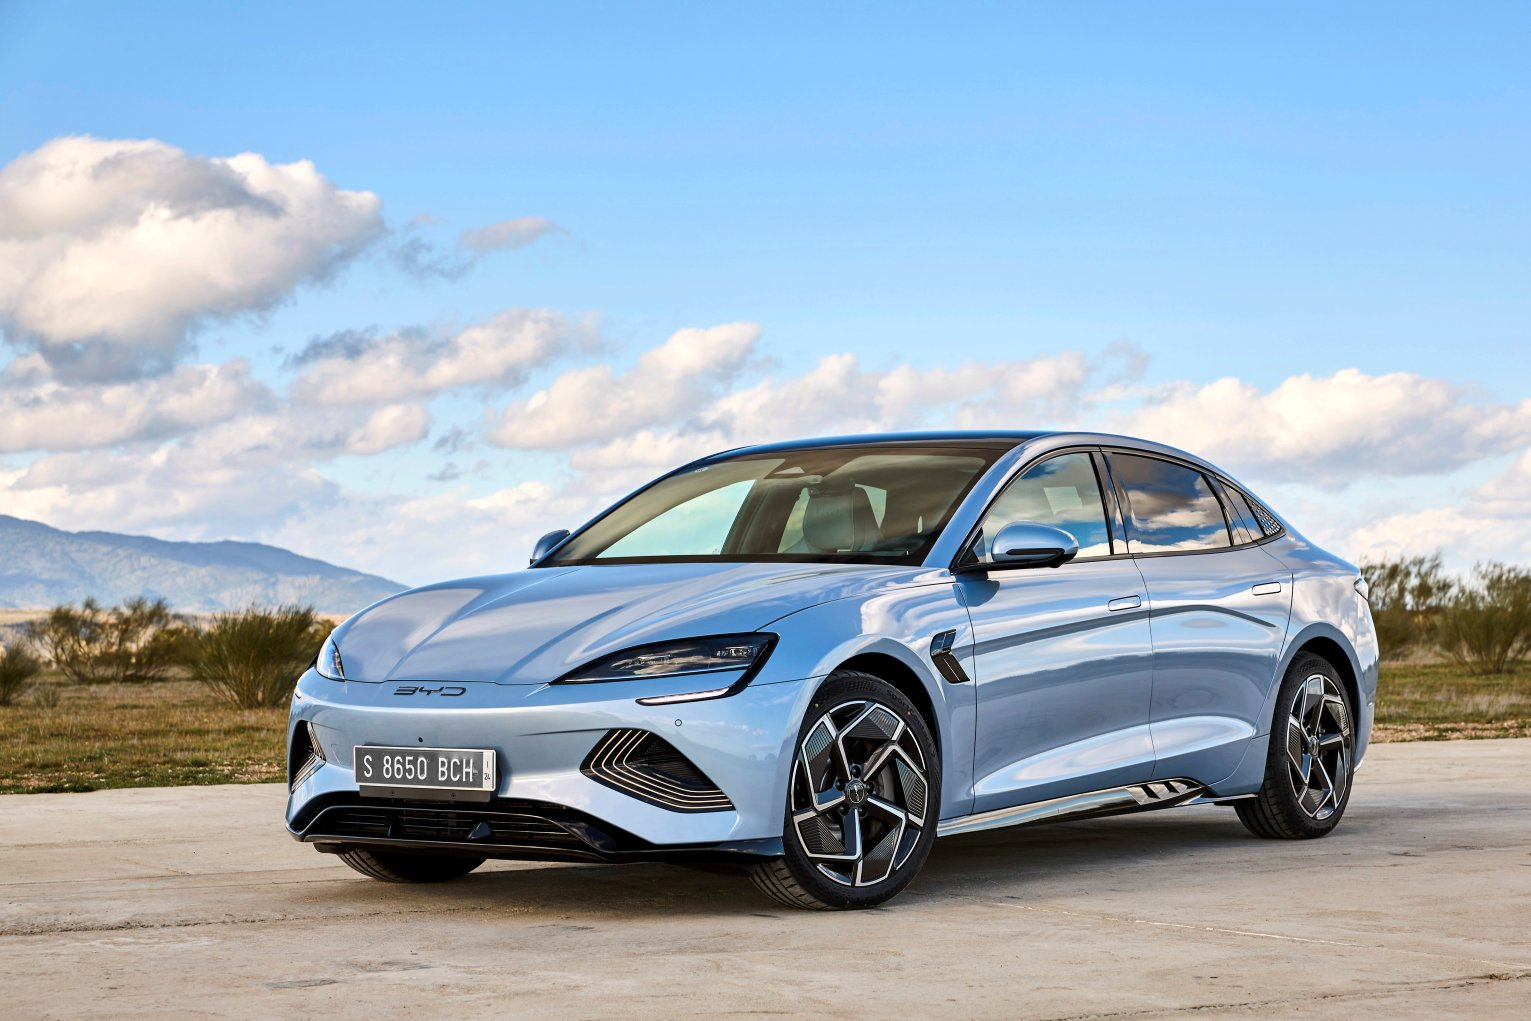
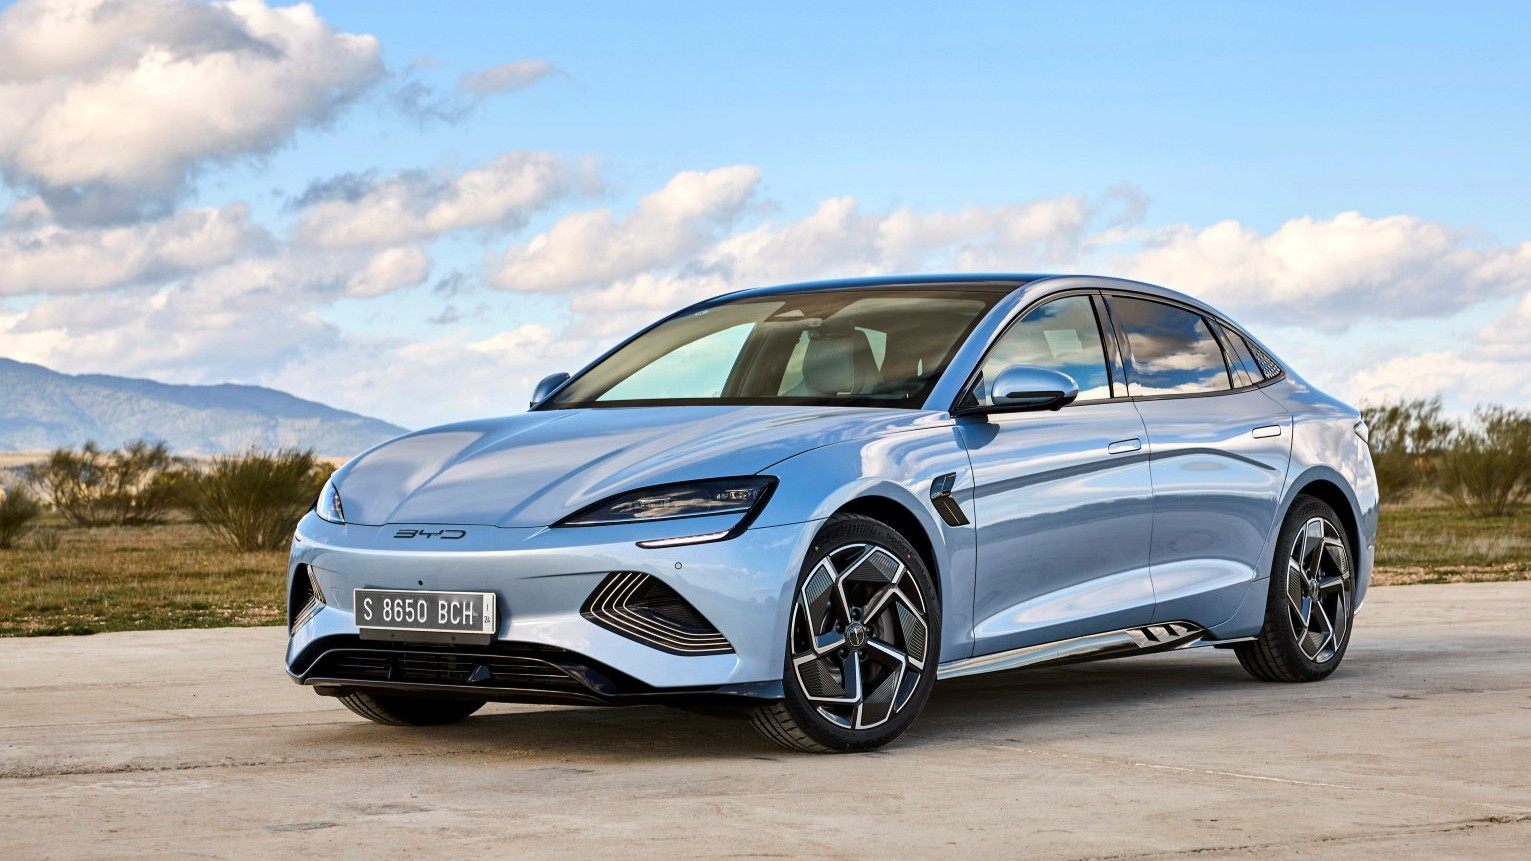
v2.12.10
Changelog
- Fixes.
- Updated some product images.

diff --git a/css/products.css b/css/products.css
@@ -12,7 +12,6 @@
 .product-info {
   display: flex;
   justify-content: center;
-  flex-flow: row;
   gap: 1rem;
   width: 100%;
 }
@@ -76,7 +75,8 @@
   width: auto;
   aspect-ratio: 16 / 9;
   border-radius: 1rem;
-  object-fit: cover;
+  object-fit: contain;
+  background-color: white;
   flex-shrink: 0;
   scroll-snap-stop: always;
   }
@@ -114,7 +114,7 @@
 /* calificación de un producto - incluye las estrellas, el número de calificaciones y el total de vendidos */
 .product-stars-sells {
   display: flex;
-  flex-direction: row;
+  flex-flow: row wrap;
   justify-content: space-between;
   align-items: center;
 
@@ -142,12 +142,14 @@ span {
 /* botones de opciones de los productos - contiene el contenedor de los botones (.buttons-container) el precio del producto y el botón de añadir al carrito (.product-add-cart) */
 .product-options {
   display: flex;
+  flex-wrap: wrap;
   align-items: center;
   justify-content: space-between;
+  gap: 1rem;
 
   .product-add-cart {
     display: flex;
-    flex-direction: row;
+    flex-flow: row wrap;
     align-items: center;
     gap: 1rem;
   }

diff --git a/css/categories.css b/css/categories.css
@@ -48,7 +48,8 @@
   box-shadow: var(--box-shadow);
   border-radius: 1rem;
   max-width: 24rem;
-  object-fit: cover;
+  object-fit: contain;
+  background-color: white;
   aspect-ratio: 16 / 9;
   height: 100%;
 }
